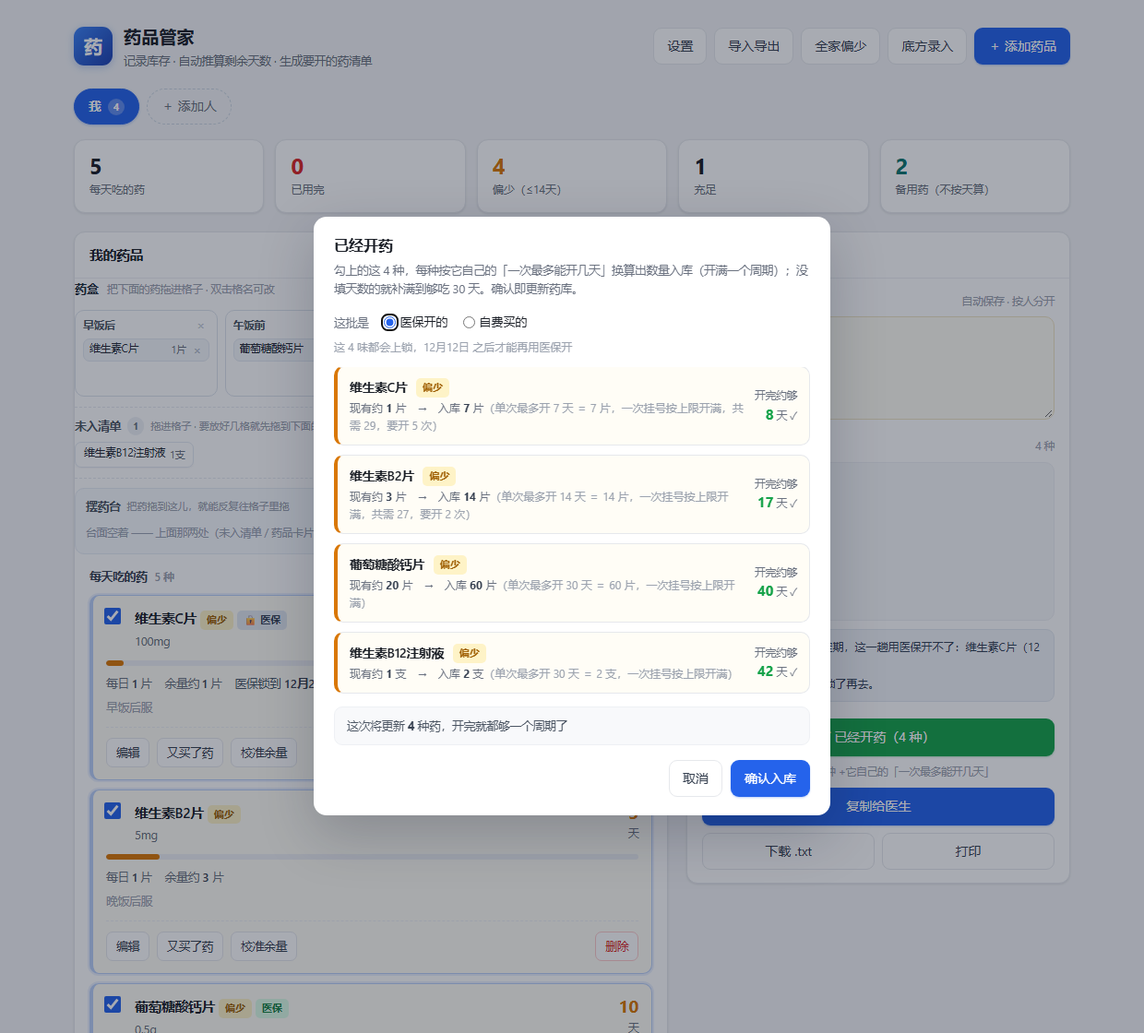
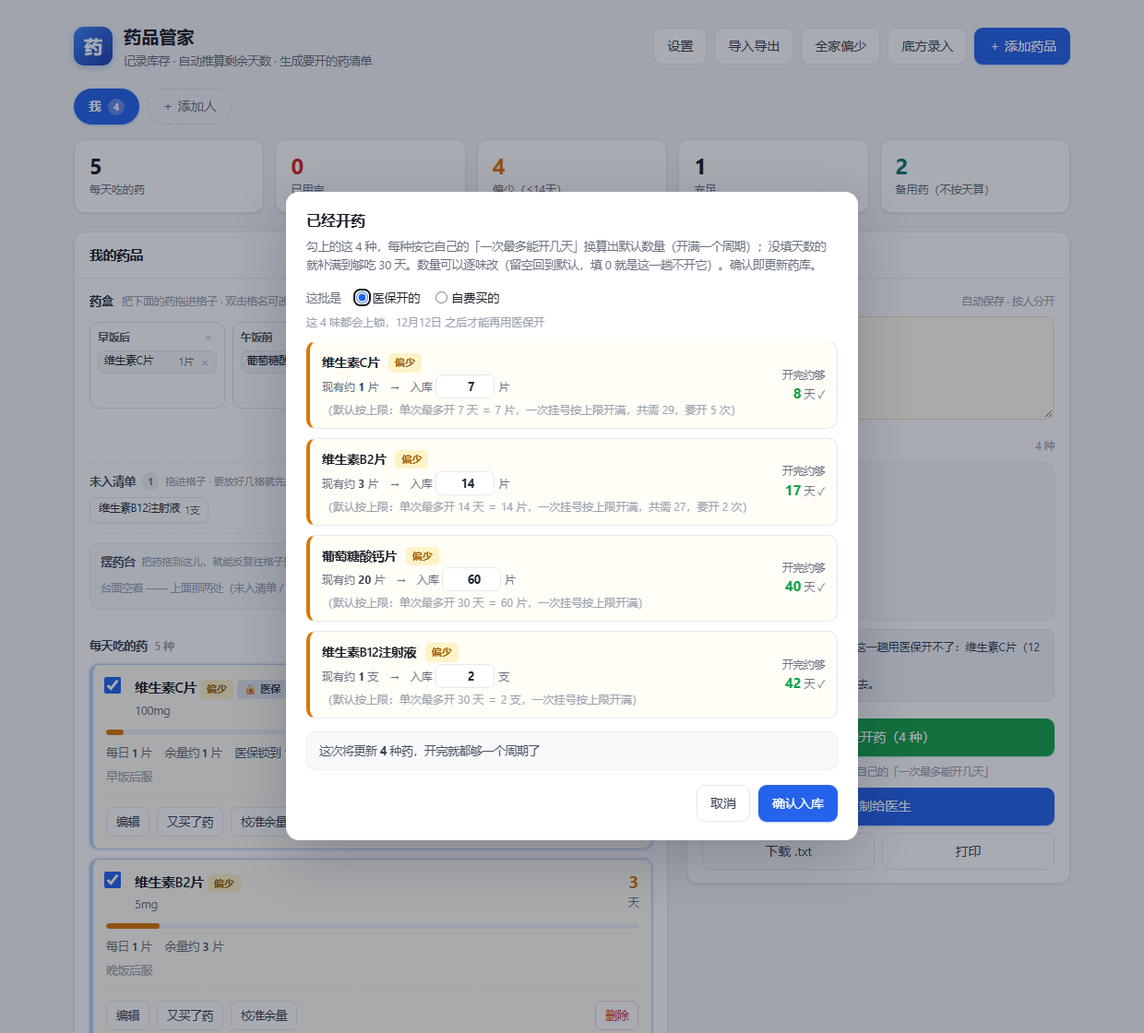
已经开药：入库片数改成可编辑，默认按上限算好
用户原话：「已经开药，这里现在入库多少片，是根据单次最多开多少天来定的。
  这个片数，它是要用户可以自己编辑的。默认的是用户输入的最多开的片数，但用户可以编辑。」

- 弹窗每行多一个数字输入框（type=number + inputmode=decimal，手机弹数字键盘）
  默认值 = dispQty()（有上限就是上限换算出来的片数，没上限就补满目标天数）
- 改数当场重算：右边「开完约够 N 天」、底下「这次将更新 N 种」、医保那句「N 味都会上锁」
  全都跟着走，不用点确认
- 留空 = 回到默认（离开输入框自动填回）；填 0 = 这一趟不开它 ——
  那一行右边写「不入库」、整行 data-skip，汇总里另起一句说明
- 全填 0 时不静默关窗：明说「这次没有要入库的」，勾选也不清
- 提交按**输入框里的数**入库（dispLivePlan），不是 dispPlan 的默认值
- 默认值那句说明改成独占一行，避免窄屏在「（默」处断字；弹窗加宽到 620
- 测试 rxcap 296 → 311（默认值 / 数字框类型 / 改数联动 / 填 0 不入库 / 留空按默认 /
  全 0 不静默 / 提交入库的是改过的数、没改的照旧按默认）
- 版本 1.7 / versionCode 8

diff --git a/index.html b/index.html
@@ -587,7 +587,10 @@ input.wbad{border-color:#fca5a5;background:#fffafa}
   font-variant-numeric:tabular-nums}
 .pk-prog.all{color:#15803d;font-weight:650}
 
-/* ---------- 「已经开药」批量入库 ---------- */
+/* ---------- 「已经开药」批量入库 ----------
+   比通用弹窗（560）宽一档：2026-11-19 起每一味多了一个「入库数量」输入框，
+   560 宽时那一行会挤成两行、右边「开完约够几天」也被压扁。 */
+#dlgDisp{width:min(620px,94vw)}
 .disp-list{display:flex;flex-direction:column;gap:10px;max-height:50vh;overflow:auto}
 .disp-row{display:flex;align-items:center;gap:11px;padding:11px 13px;border:1px solid var(--line);
   border-left-width:4px;border-radius:10px;background:#fff}
@@ -601,7 +604,22 @@ input.wbad{border-color:#fca5a5;background:#fffafa}
 .disp-name{font-weight:620;font-size:13.5px;word-break:break-word}
 .disp-meta{font-size:12px;color:var(--muted);margin-top:2px}
 .disp-meta b{color:#374151}
-.disp-src{color:var(--faint)}
+/* 入库数量可以改（2026-11-19 用户：「这个片数它是要用户可以自己编辑的，默认的是
+   最多开的片数，但用户可以编辑」）。做成行内小格，而不是另开一步 ——
+   默认值已经算好，绝大多数时候是"看着对就点确认"，改才是例外。
+   ★ 用 type=number + inputmode=decimal：手机上弹数字键盘，且能带小数（0.5 片）。 */
+.disp-qty{display:inline-flex;align-items:baseline;gap:4px}
+.disp-qty input{font:inherit;font-size:12.5px;font-weight:650;color:#1f2937;
+  width:64px;padding:2px 6px;border:1px solid var(--line);border-radius:6px;background:#fff;
+  text-align:right;font-variant-numeric:tabular-nums}
+.disp-qty input:focus{outline:none;border-color:var(--brand);box-shadow:0 0 0 3px rgba(37,99,235,.12)}
+.disp-qty .u{font-size:11.5px;color:var(--muted)}
+/* 填 0（或留空）的那一味：这一趟不入库。只用右边那格说清楚，不给药名变淡 ——
+   用户明确不喜欢"名册变灰"，见药盒那条注释（2026-11-19）。 */
+.disp-row[data-skip="1"] .disp-after{color:var(--faint)}
+/* 那句「默认值怎么来的」单独占一行：跟「现有 → 入库 [n]」挤在同一行时，
+   窄屏会在「（默」这种地方断掉，看着像坏了。 */
+.disp-src{display:block;color:var(--faint);margin-top:3px;line-height:1.5}
 .disp-after{flex:none;text-align:right;font-size:11.5px;color:var(--muted);line-height:1.5}
 .disp-after b{font-size:15px;font-weight:680;color:#374151}
 .disp-after.ok b{color:var(--ok)}
@@ -4226,12 +4244,74 @@ function dispItems(){
 // 这次的入库计划：不必手填——一次挂号只能开一次药，有单次上限就按上限开满，
 // 没设上限就补满目标天数。qty 统一走 dispQty，和卡片上的「需补」是同一个数。
 // capDays 一并带出去：界面要能说清「单次最多开 N 天」，光给片数等于让用户自己除。
+// ★ 这个 qty 只是**默认值**：弹窗里每一味都能改（2026-11-19 用户要求），
+//   真要入库的数量以 dispLivePlan() 读输入框为准，别拿这份当最终结果。
 function dispPlan(){
   return dispItems().map(function(m){
     const cap = rxCap(m);
     const byCap = isFinite(cap);
     return { m: m, qty: dispQty(m), byCap: byCap, capDays: rxCapDays(m) };
   });
+}
+
+/* 弹窗里**当前**填着的计划 —— 和 dispPlan() 只差一件事：qty 从输入框读。
+   为什么不把用户的改动记到变量里：输入框才是唯一真相，省掉"变量和界面不同步"这类账。
+   读不到框（比如还没渲染完）就退回默认值。 */
+function dispLivePlan(){
+  return dispItems().map(function(m){
+    const def = dispQty(m);
+    const inp = document.querySelector('#dispList input[data-disp="' + m.id + '"]');
+    let qty = def;
+    if(inp){
+      const v = parseFloat(inp.value);
+      // ★ 空着（还没打完）算默认，不算 0 —— 否则"清空重打"会静悄悄变成不入库。
+      //   想跳过某一味就明确填 0。
+      qty = (String(inp.value).trim() === '' || !isFinite(v) || v < 0) ? def : round2(v);
+    }
+    return { m: m, qty: qty, def: def, byCap: isFinite(rxCap(m)), capDays: rxCapDays(m) };
+  });
+}
+
+// 把「开完约够 N 天」和底下那行汇总按**当前输入**重算。
+// 改一个数就动这几处，不整块重画 —— 重画会把光标顶掉（人正打着字）。
+function refreshDispTotals(){
+  const plan = dispLivePlan();
+  let still = 0, skipped = 0, used = 0;
+  plan.forEach(function(p){
+    const m = p.m;
+    const unit = m.unit || '片';
+    const d = dailyUse(m);
+    const after = round2(stockNow(m) + p.qty);
+    const days = d > 0 ? after / d : Infinity;
+    const ok = !isFinite(days) || days >= refillLine(m);
+    const row = document.querySelector('#dispList .disp-row[data-med="' + m.id + '"]');
+    if(p.qty > 0){
+      used++;
+      if(!ok) still++;
+    }else{
+      skipped++;
+    }
+    if(row){
+      row.setAttribute('data-skip', p.qty > 0 ? '' : '1');
+      const cell = row.querySelector('.disp-after');
+      if(cell){
+        cell.className = 'disp-after' + (p.qty > 0 && ok ? ' ok' : '');
+        cell.innerHTML = p.qty > 0
+          ? '开完约够<br><b>' + (isFinite(days) ? fmtDays(days) : '—') + '</b> 天' + (ok ? ' ✓' : '')
+          : '这次<br><b>不入库</b>';
+      }
+    }
+  });
+
+  const sum = $('#dispSum');
+  if(sum){
+    sum.innerHTML = used
+      ? '这次将更新 <b>' + used + '</b> 种药'
+          + (still ? '，其中 <b>' + still + '</b> 种开完仍凑不满一个周期' : '，开完就都够一个周期了')
+          + (skipped ? '；另外 ' + skipped + ' 味填了 0，这次不动' : '')
+      : '每一味都填成 0 了 —— 这样确认下去什么都不会入库。改一个数，或者点「取消」。';
+  }
+  syncDispIns(used);
 }
 
 async function openDisp(){
@@ -4245,54 +4325,45 @@ async function openDisp(){
   }
 
   $('#dispSub').textContent = '勾上的这 ' + plan.length + ' 种，每种按它自己的「一次最多能开几天」'
-    + '换算出数量入库（开满一个周期）；没填天数的就补满到够吃 ' + settings.targetDays + ' 天。'
-    + '确认即更新药库。';
+    + '换算出默认数量（开满一个周期）；没填天数的就补满到够吃 ' + settings.targetDays + ' 天。'
+    + '数量可以逐味改（留空回到默认，填 0 就是这一趟不开它）。确认即更新药库。';
 
-  let still = 0;
   $('#dispList').innerHTML = plan.map(function(p){
     const m = p.m;
     const unit = m.unit || '片';
     const lv = level(m);
-    const d = dailyUse(m);
     const nu = needUnits(m);
-    const after = round2(stockNow(m) + p.qty);
-    const days = d > 0 ? after / d : Infinity;
-    // 「开完够不够一个周期」—— 和清单同一条线（refillLine），不是提醒天数
-    const ok = !isFinite(days) || days >= refillLine(m);
-    if(!ok) still++;
-    return '<div class="disp-row" data-lv="' + lv + '">'
+    return '<div class="disp-row" data-lv="' + lv + '" data-med="' + m.id + '">'
       +   '<div class="disp-info">'
       +     '<div class="disp-name">' + esc(m.name)
       +       ' <span class="tag ' + lv + '">' + LEVEL_LABEL[lv] + '</span></div>'
       +     '<div class="disp-meta">现有约 <b>' + fmtNum(stockNow(m)) + '</b> ' + esc(unit)
-      +       '　→　入库 <b>' + fmtNum(p.qty) + '</b> ' + esc(unit)
-      +       '<span class="disp-src">' + (p.byCap
-              ? '（' + (isFinite(p.capDays)
-                    ? '单次最多开 ' + fmtNum(p.capDays) + ' 天 ＝ ' + fmtNum(p.qty) + ' ' + esc(unit)
-                    : '单次限 ' + fmtNum(p.qty) + ' ' + esc(unit))
-                + '，一次挂号按上限开满'
-                + (p.qty < nu
-                    ? '，共需 ' + fmtNum(nu) + '，要开 ' + rxTrips(m) + ' 次'
-                    : '')
-                + '）'
-              : '（没填天数，补满 ' + settings.targetDays
-                + ' 天需 ' + fmtNum(nu) + ' ' + esc(unit) + '）') + '</span>'
+      +       '　→　入库 <span class="disp-qty">'
+      +         '<input type="number" class="dq" data-disp="' + m.id + '" inputmode="decimal"'
+      +           ' min="0" step="any" value="' + round2(p.qty) + '"'
+      +           ' aria-label="「' + esc(m.name) + '」这次入库多少' + esc(unit) + '">'
+      +         '<span class="u">' + esc(unit) + '</span></span>'
+      // 这一串只说清「这个默认值是怎么来的」—— 数字本身输入框里已经有了，不重复念一遍
+      +       '<span class="disp-src">（' + (p.byCap
+                  ? '默认按上限：' + (isFinite(p.capDays)
+                        ? '单次最多开 ' + fmtNum(p.capDays) + ' 天 ＝ ' + fmtNum(p.qty) + ' ' + esc(unit)
+                        : '单次限 ' + fmtNum(p.qty) + ' ' + esc(unit))
+                    + '，一次挂号按上限开满'
+                    + (p.qty < nu
+                        ? '，共需 ' + fmtNum(nu) + '，要开 ' + rxTrips(m) + ' 次'
+                        : '')
+                  : '没填上限，补满 ' + settings.targetDays
+                    + ' 天需 ' + fmtNum(nu) + ' ' + esc(unit)) + '）</span>'
       +     '</div>'
       +   '</div>'
-      +   '<div class="disp-after' + (ok ? ' ok' : '') + '">开完约够<br><b>'
-      +     (isFinite(days) ? fmtDays(days) : '—') + '</b> 天' + (ok ? ' ✓' : '') + '</div>'
+      +   '<div class="disp-after"></div>'
       + '</div>';
   }).join('');
-
-  $('#dispSum').innerHTML = '这次将更新 <b>' + plan.length + '</b> 种药'
-    + (still
-        ? '，其中 <b>' + still + '</b> 种开完仍凑不满一个周期'
-        : '，开完就都够一个周期了');
 
   // 默认按医保记（这本来就是去医院开的动作），用户想记自费可以改
   const mi = document.querySelector('#formDisp input[name=dispIns][value=mi]');
   if(mi) mi.checked = true;
-  syncDispIns(plan.length);
+  refreshDispTotals();
 
   $('#dlgDisp').showModal();
 }
@@ -4302,7 +4373,9 @@ function syncDispIns(n){
   const tip = $('#dispInsTip');
   if(!tip) return;
   const el = document.querySelector('#formDisp input[name=dispIns]:checked');
-  const cnt = (n == null) ? dispPlan().length : n;
+  const cnt = (n == null)
+    ? dispLivePlan().filter(function(p){ return p.qty > 0; }).length
+    : n;
   tip.textContent = (el && el.value === 'mi')
     ? '这 ' + cnt + ' 味都会上锁，' + fmtMD(miUnlockFrom(todayStr())) + ' 之后才能再用医保开'
     : '自费的不上锁；原来锁着的也不动';
@@ -4310,8 +4383,16 @@ function syncDispIns(n){
 
 async function submitDisp(e){
   e.preventDefault();
-  const plan = dispPlan();          // 必须改数据之前先算好
-  if(!plan.length){ $('#dlgDisp').close(); return; }
+  // 必须改数据之前先算好；数量以弹窗里**现在填的**为准（用户可能改过）
+  const live = dispLivePlan();
+  const plan = live.filter(function(p){ return p.qty > 0; });
+  if(!plan.length){
+    await askAlert({
+      title: '这次没有要入库的',
+      sub: '每一味的数量都填成了 0（留空或填 0 就是这一趟不入库）。改一个数再确认，或者直接取消。'
+    });
+    return;
+  }
   const insEl = document.querySelector('#formDisp input[name=dispIns]:checked');
   const ins = (insEl && insEl.value === 'mi') ? 'mi' : '';
   plan.forEach(function(p){
@@ -4328,11 +4409,13 @@ async function submitDisp(e){
   $('#dlgDisp').close();
 
   const short = plan.filter(function(p){ return inRefill(p.m); }).length;
+  const skipped = live.length - plan.length;
   await askAlert({
     title: '已入库 ' + plan.length + ' 种药',
-    sub: short
+    sub: (short
       ? '其中 ' + short + ' 种还没凑满一个周期，下次再补。'
-      : '这 ' + plan.length + ' 种都够一个周期了。'
+      : '这 ' + plan.length + ' 种都够一个周期了。')
+      + (skipped ? '（另外 ' + skipped + ' 味填的是 0，这次没动）' : '')
   });
 }
 
@@ -5846,6 +5929,23 @@ $('#noteBox').addEventListener('input', function(){
 $('#btnDispCancel').addEventListener('click', function(){ $('#dlgDisp').close(); });
 $('#formDisp').addEventListener('submit', submitDisp);
 $('#formDisp').addEventListener('change', function(){ syncDispIns(); });
+
+/* 入库数量是可编辑的（2026-11-19 用户要求）。
+   input：边打边重算右边「开完约够几天」和底下那行汇总；
+   focusout：清空后离开 → 把默认值填回去（空着不留白，免得看着像"这味不要了"）。 */
+$('#dispList').addEventListener('input', function(e){
+  const inp = e.target;
+  if(inp && inp.classList && inp.classList.contains('dq')) refreshDispTotals();
+});
+$('#dispList').addEventListener('focusout', function(e){
+  const inp = e.target;
+  if(!inp || !inp.classList || !inp.classList.contains('dq')) return;
+  if(String(inp.value).trim() === ''){
+    const m = findMed(inp.getAttribute('data-disp'));
+    if(m) inp.value = round2(dispQty(m));
+    refreshDispTotals();
+  }
+});
 $('#btnSetCancel').addEventListener('click', function(){ $('#dlgSet').close(); });
 $('#formSet').addEventListener('submit', submitSettings);
 $('#btnCopy').addEventListener('click', copyRefill);

diff --git a/_check/test_rxcap.py b/_check/test_rxcap.py
@@ -1080,6 +1080,103 @@ PROBE = r"""
     switchPerson(backTo2);      // 还原，别影响后面的断言
   })();
 
+  /* ================= 11. 入库数量可以逐味改（2026-11-19 用户要求） =================
+     用户原话：「已经开药，这里现在入库多少片，是根据单次最多开多少天来定的。
+               这个片数，它是要用户可以自己编辑的。默认的是用户输入的最多开的片数，
+               但用户可以编辑。」
+     守四件事：
+       ① 每一味都有一个数字输入框，**默认值 = 按单次上限换算出来的那个数**；
+       ② 改数之后右边「开完约够几天」和底下那行汇总当场跟着变（不用点确认）；
+       ③ 真提交时入库的是**改过的数**，不是默认数 —— 这是这条需求的全部意义；
+       ④ 留空 ≠ 0：留空回到默认，填 0 才是「这一趟不开它」。
+     ★ 别把 ③ 写成"调 dispPlan() 看 qty" —— 那就绕开了输入框，
+       用户改了却不生效的 bug 照样能过测。必须真改 DOM 再真提交。 */
+  await (async function(){
+    var e1 = mkRx({ name:'可编辑片', perDose:2, unit:'片', cycleDays:1, timesPerCycle:1,
+                    stockBase:3, stockDate: todayStr(), rxMax:7, rxMaxDay:1 });
+    // 每天 2 片 × 限 7 天 → 上限 14 片；现有 3 片
+    // 再配一味"根本不动它"的，用来证明没改的那几味照旧按默认入库
+    var e1b = mkRx({ name:'另一味片', perDose:1, unit:'片', cycleDays:1, timesPerCycle:1,
+                     stockBase:1, stockDate: todayStr(), rxMax:5, rxMaxDay:1 });
+    setMeds([e1, e1b]); save(); render();
+    pickSet(e1.id, true); pickSet(e1b.id, true); render();   // 两味都进这一趟的入库计划
+    ck('上限换算没变：每天 2 片 · 限 7 天 → 一次 14 片', rxCap(byName('可编辑片')) === 14,
+       rxCap(byName('可编辑片')));
+    await openDisp();
+
+    var inp = q('#dispList input.dq[data-disp="' + e1.id + '"]');
+    ck('★ 弹窗里每一味都有一个自己的入库数量输入框',
+       !!inp && document.querySelectorAll('#dispList input.dq').length === dispItems().length,
+       document.querySelectorAll('#dispList input.dq').length + ' 个 / ' + dispItems().length + ' 味');
+    ck('  它是数字框（手机上弹数字键盘，能打小数）',
+       !!inp && inp.getAttribute('type') === 'number' && inp.getAttribute('inputmode') === 'decimal',
+       inp ? inp.getAttribute('type') + ' / ' + inp.getAttribute('inputmode') : '没有');
+    ck('★ 默认值就是按「单次最多开几天」算出来的 14 片', !!inp && inp.value === '14',
+       inp ? inp.value : '没有');
+    ck('  行里那句话点明默认值怎么来的（数字在输入框里，不再重复念）',
+       /默认按上限[\s\S]*?＝\s*14\s*片/.test(q('#dispList').textContent.replace(/\s+/g, ' ')),
+       q('#dispList').textContent.replace(/\s+/g, ' ').slice(0, 120));
+
+    // ---- 改数：右边那一格和底下汇总要当场跟着变 ----
+    function after1(){ return q('#dispList .disp-row[data-med="' + e1.id + '"] .disp-after'); }
+    inp.value = '6';
+    inp.dispatchEvent(new Event('input', { bubbles: true }));
+    ck('★ 改成 6 片 → 右边「开完约够」当场变成 4 天（(3+6)/2）',
+       /约够\s*4\s*天/.test(after1().textContent.replace(/\s+/g, ' ')),
+       after1().textContent.replace(/\s+/g, ' '));
+    ck('  输入框里的数没被重画冲掉', inp.value === '6', inp.value);
+
+    inp.value = '0';
+    inp.dispatchEvent(new Event('input', { bubbles: true }));
+    ck('★ 填 0 → 那一行右边写「不入库」，并且整行标了 data-skip',
+       q('#dispList .disp-row[data-med="' + e1.id + '"]').getAttribute('data-skip') === '1'
+       && /不入库/.test(after1().textContent),
+       after1().textContent.replace(/\s+/g, ' '));
+    ck('  汇总改口说「另外 1 味填了 0，这次不动」（另一味还要入）',
+       /另外\s*1\s*味填了\s*0/.test(q('#dispSum').textContent), q('#dispSum').textContent);
+
+    // ---- 真提交：入库的必须是改过的 6，不是默认的 14 ----
+    inp.value = '6';
+    inp.dispatchEvent(new Event('input', { bubbles: true }));
+    await submitDisp({ preventDefault: function(){} });
+    ck('★★ 提交后库存 = 3 + 6 = 9（按改过的数入库，不是默认的 14）',
+       byName('可编辑片').stockBase === 9, byName('可编辑片').stockBase);
+    ck('  没改过的那味照旧按默认入库（1 + 5 = 6）',
+       byName('另一味片').stockBase === 6, byName('另一味片').stockBase);
+
+    // ---- 留空 = 回到默认，不是 0 ----
+    var e2 = mkRx({ name:'留空片', perDose:1, unit:'片', cycleDays:1, timesPerCycle:1,
+                    stockBase:0, stockDate: todayStr(), rxMax:7, rxMaxDay:1 });
+    setMeds([e2]); save(); render();
+    pickSet(e2.id, true); render();
+    await openDisp();
+    var in2 = q('#dispList input.dq[data-disp="' + e2.id + '"]');
+    in2.value = '';
+    in2.dispatchEvent(new Event('input', { bubbles: true }));
+    await submitDisp({ preventDefault: function(){} });
+    ck('★ 输入框留空 → 按默认值入库（限 7 天 × 每天 1 片 = 7），不当作 0 跳过',
+       byName('留空片').stockBase === 7, byName('留空片').stockBase);
+
+    // ---- 全部填 0：不静默关窗，明确告诉用户什么都没动 ----
+    var e3 = mkRx({ name:'全零片', perDose:1, unit:'片', cycleDays:1, timesPerCycle:1,
+                    stockBase:5, stockDate: todayStr(), rxMax:7, rxMaxDay:1 });
+    setMeds([e3]); save(); render();
+    pickSet(e3.id, true); render();
+    await openDisp();
+    var in3 = q('#dispList input.dq[data-disp="' + e3.id + '"]');
+    in3.value = '0';
+    in3.dispatchEvent(new Event('input', { bubbles: true }));
+    await submitDisp({ preventDefault: function(){} });
+    ck('★ 全都填 0 → 一味都不入库（库存原样 5）', byName('全零片').stockBase === 5,
+       byName('全零片').stockBase);
+    ck('  并且明说「这次没有要入库的」，不装作成功',
+       /没有要入库/.test(R.alerts[R.alerts.length - 1] || ''),
+       R.alerts[R.alerts.length - 1]);
+    ck('  勾选也还留着（没入库就不该清掉勾）', pickCount() === 1, pickCount());
+    q('#dlgDisp').close();
+    pickClear(); render();
+  })();
+
   function rxFinish(){
     // ★ 用户 2026-10-23：「点删除之后 应该是弹窗来确认 而不是由页面默认方式来实现」。
     //   页面里已经一处原生 alert/confirm/prompt 都没有了（都走 askXxx → 页面内 <dialog>），

diff --git a/README.md b/README.md
@@ -372,11 +372,18 @@
 
 - 先在药品卡片左上角**勾上这一趟真的开到了哪几味** —— 右侧的
   「**✓ 已经开药（N 种）**」只处理勾上的这几种；
-- 点它 → 每种**按它自己的上限入库**，弹窗里直接标出「开完约够 N 天」，
-  够一个周期的打勾；
+- 点它 → 弹窗里每种都先按**它自己的上限**算好一个入库数量（也就是「默认值」），
+  右边直接标出「开完约够 N 天」，够一个周期的打勾；
+- **这个数量可以改** —— 医院实际只给了一半、或者你想少开点留着下次，直接在那一行改：
+  改完右边天数和底下那行汇总当场重算，不用点确认；
+- 数量**留空 = 回到默认**；填 **0** = 这一趟就不开它（那一行会写「不入库」，汇总里也会说明）；
 - 被上限卡住、一次开不完的，当场写明「单次最多开 7 天 ＝ 7 片 …… 共需 30，要开 5 次」；
 - 确认后一次更新这几种的库存，并告诉你**有几种还没凑满一个周期**。
 
+> **为什么数量要能改**：上限算出来的是「这一趟**最多**能开多少」，不是「这趟真的给了多少」。
+> 医生可能只给一半、药房可能缺一种规格、也可能你自己想留着下次再开 —— 所以默认值填好，
+> 剩下的留给当场那一眼。改过的数只影响这一次入库，不动上限本身。
+>
 > **为什么改成自己勾**：原来一点「已经开药」就把清单上**全部**的药都入库。
 > 可真跑一趟，常常只开到了其中几味（有的还在医保锁定期、有的医生说下次再说），
 > 全入库等于替用户记账。现在变成「开到了哪几味就勾哪几味」——
@@ -908,7 +915,7 @@ python android/build.py
 ```
 index.html                程序本体：单文件，拷走就能跑
 tools/rx_local/rx_local.py  可选的「本地解析」工具：Windows 自带 OCR 把处方照片读成药行（不联网、不上传照片）
-_check/test_rxcap.py      自检脚本 —— 无头 Chrome 跑 296 项断言（口径、入库、文案、**「要开的药」按「剩余天数 < 一次最多能开几天」判**、**勾选制（只动勾上的、卡片勾选框真能点）**、中间弹窗、底方解析、#rx= 链接跨实现往返、AI 说明与「页面不认照片 / 没有后台 AI」防回潮、真药名自查、「添加药品」必填口径、底方「是谁的」+ 重复药去重、底方「对账依据」必须可见、**一次原生弹窗都不许有**，以及「README 说的和事实一致」）
+_check/test_rxcap.py      自检脚本 —— 无头 Chrome 跑 311 项断言（口径、入库、文案、**「已经开药」的入库数量可逐味改写（默认值＝上限换算、留空＝默认、填 0＝不入库、提交按改过的数）**、**「要开的药」按「剩余天数 < 一次最多能开几天」判**、**勾选制（只动勾上的、卡片勾选框真能点）**、中间弹窗、底方解析、#rx= 链接跨实现往返、AI 说明与「页面不认照片 / 没有后台 AI」防回潮、真药名自查、「添加药品」必填口径、底方「是谁的」+ 重复药去重、底方「对账依据」必须可见、**一次原生弹窗都不许有**，以及「README 说的和事实一致」）
 _check/test_prn.py        备用药那一类的自检 —— 84 条（每天吃 / 备用药分得开、备用药不按天扣、不进续方清单、没有勾选框、表单必填口径两套、改类型时余量不被改写、导入导出 kind 不丢）
 _check/test_box.py        药盒的自检 —— 227 条（默认 3 格、格数 1~7、**每一格自己的删除叉**（删指定那格 / 空格不问 / 只剩一格不给删 / 两个叉不串）、格名可改、**真把 PointerEvent 打进页面**验拖拽全链路、跨格是搬不是复制、未入清单的筛选与双向拖拽、摆药台连拖三次能摆满三格、药名折行的真实布局高度、备用药拖不进、删药清盒、按人分开、导出导入不丢、脏数据清洗、确认框真的弹/按钮真的能点/Esc 与点遮罩都算取消、**分药模式**（格子上不再挤勾选框、右下角那颗按钮真能开窗、窗比通用弹窗宽、一味药一行且行高齐平、按药记所以同一味那几行一起变、**药盒里的格子和名字一点都不跟**、清空勾、不动库存、不进存档、空盒不挂按钮、**窗口上方那排成员真能换人换盒且窗不关**、**#box 真内边距所以按钮不再贴着边框**）、以及那条"类名撞车"体检）
 _check/test_all.py        全家汇总的自检 —— 74 条（只在人数 > 1 时出现且紧跟「＋ 添加人」、药名+单位合并口径、同名异单位不许相加、天数不一要如实写、**改总量后多的全给余量最少的那位（按天数不按片数）**、减药从余量最多的扣且不扣成负数、「余量最少」小标标的就是真会拿到药的人、备用药不参与分配、单人那行也能调、giveDelta 的边界、调完存盘、一个人时入口消失）
@@ -935,7 +942,7 @@ LICENSE                   MIT，署名「人间小土鸡」
 改完程序想自己验一遍：
 
 ```bash
-python _check/test_rxcap.py       # 网页本体：296 项
+python _check/test_rxcap.py       # 网页本体：311 项
 python _check/test_prn.py         # 备用药那一类：84 项
 python _check/test_box.py         # 药盒 + 未入清单 + 摆药台 + 拖拽 + 折行 + 单格删除 + 分药模式 + 弹窗：227 项
 python _check/test_all.py         # 全家汇总（按药名合并 + 调总量补给余量最少的人）：74 项
